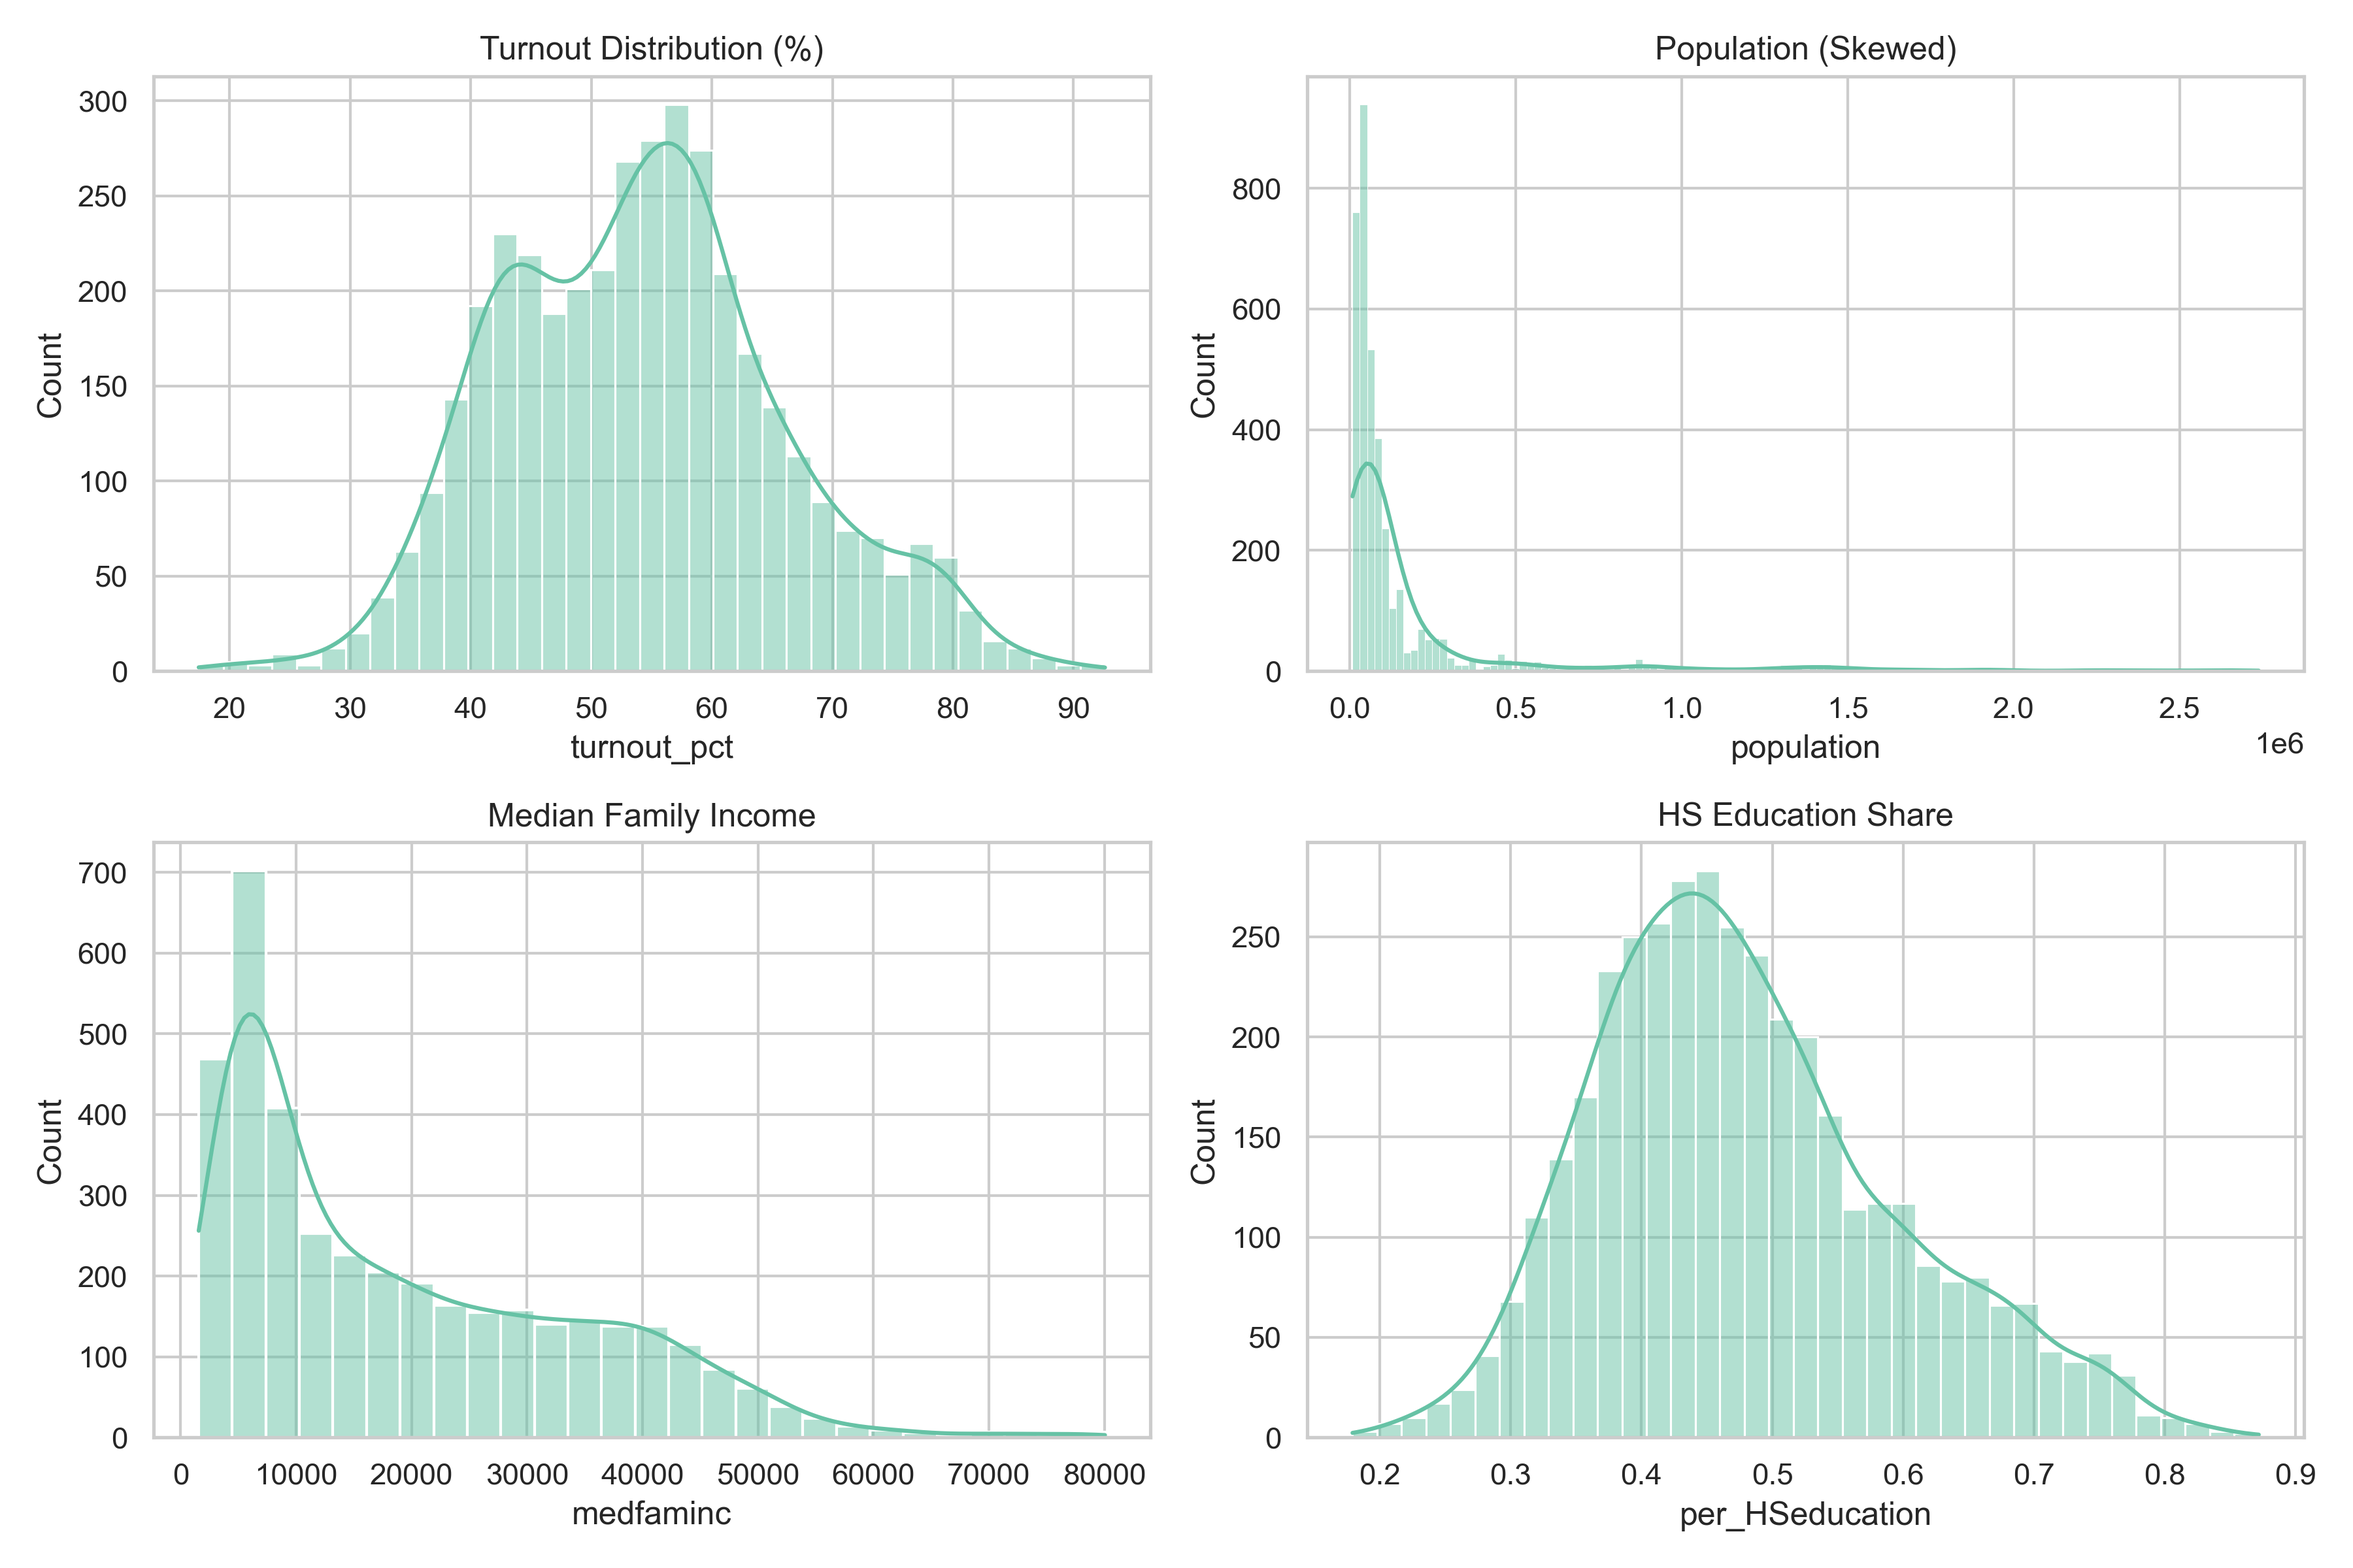
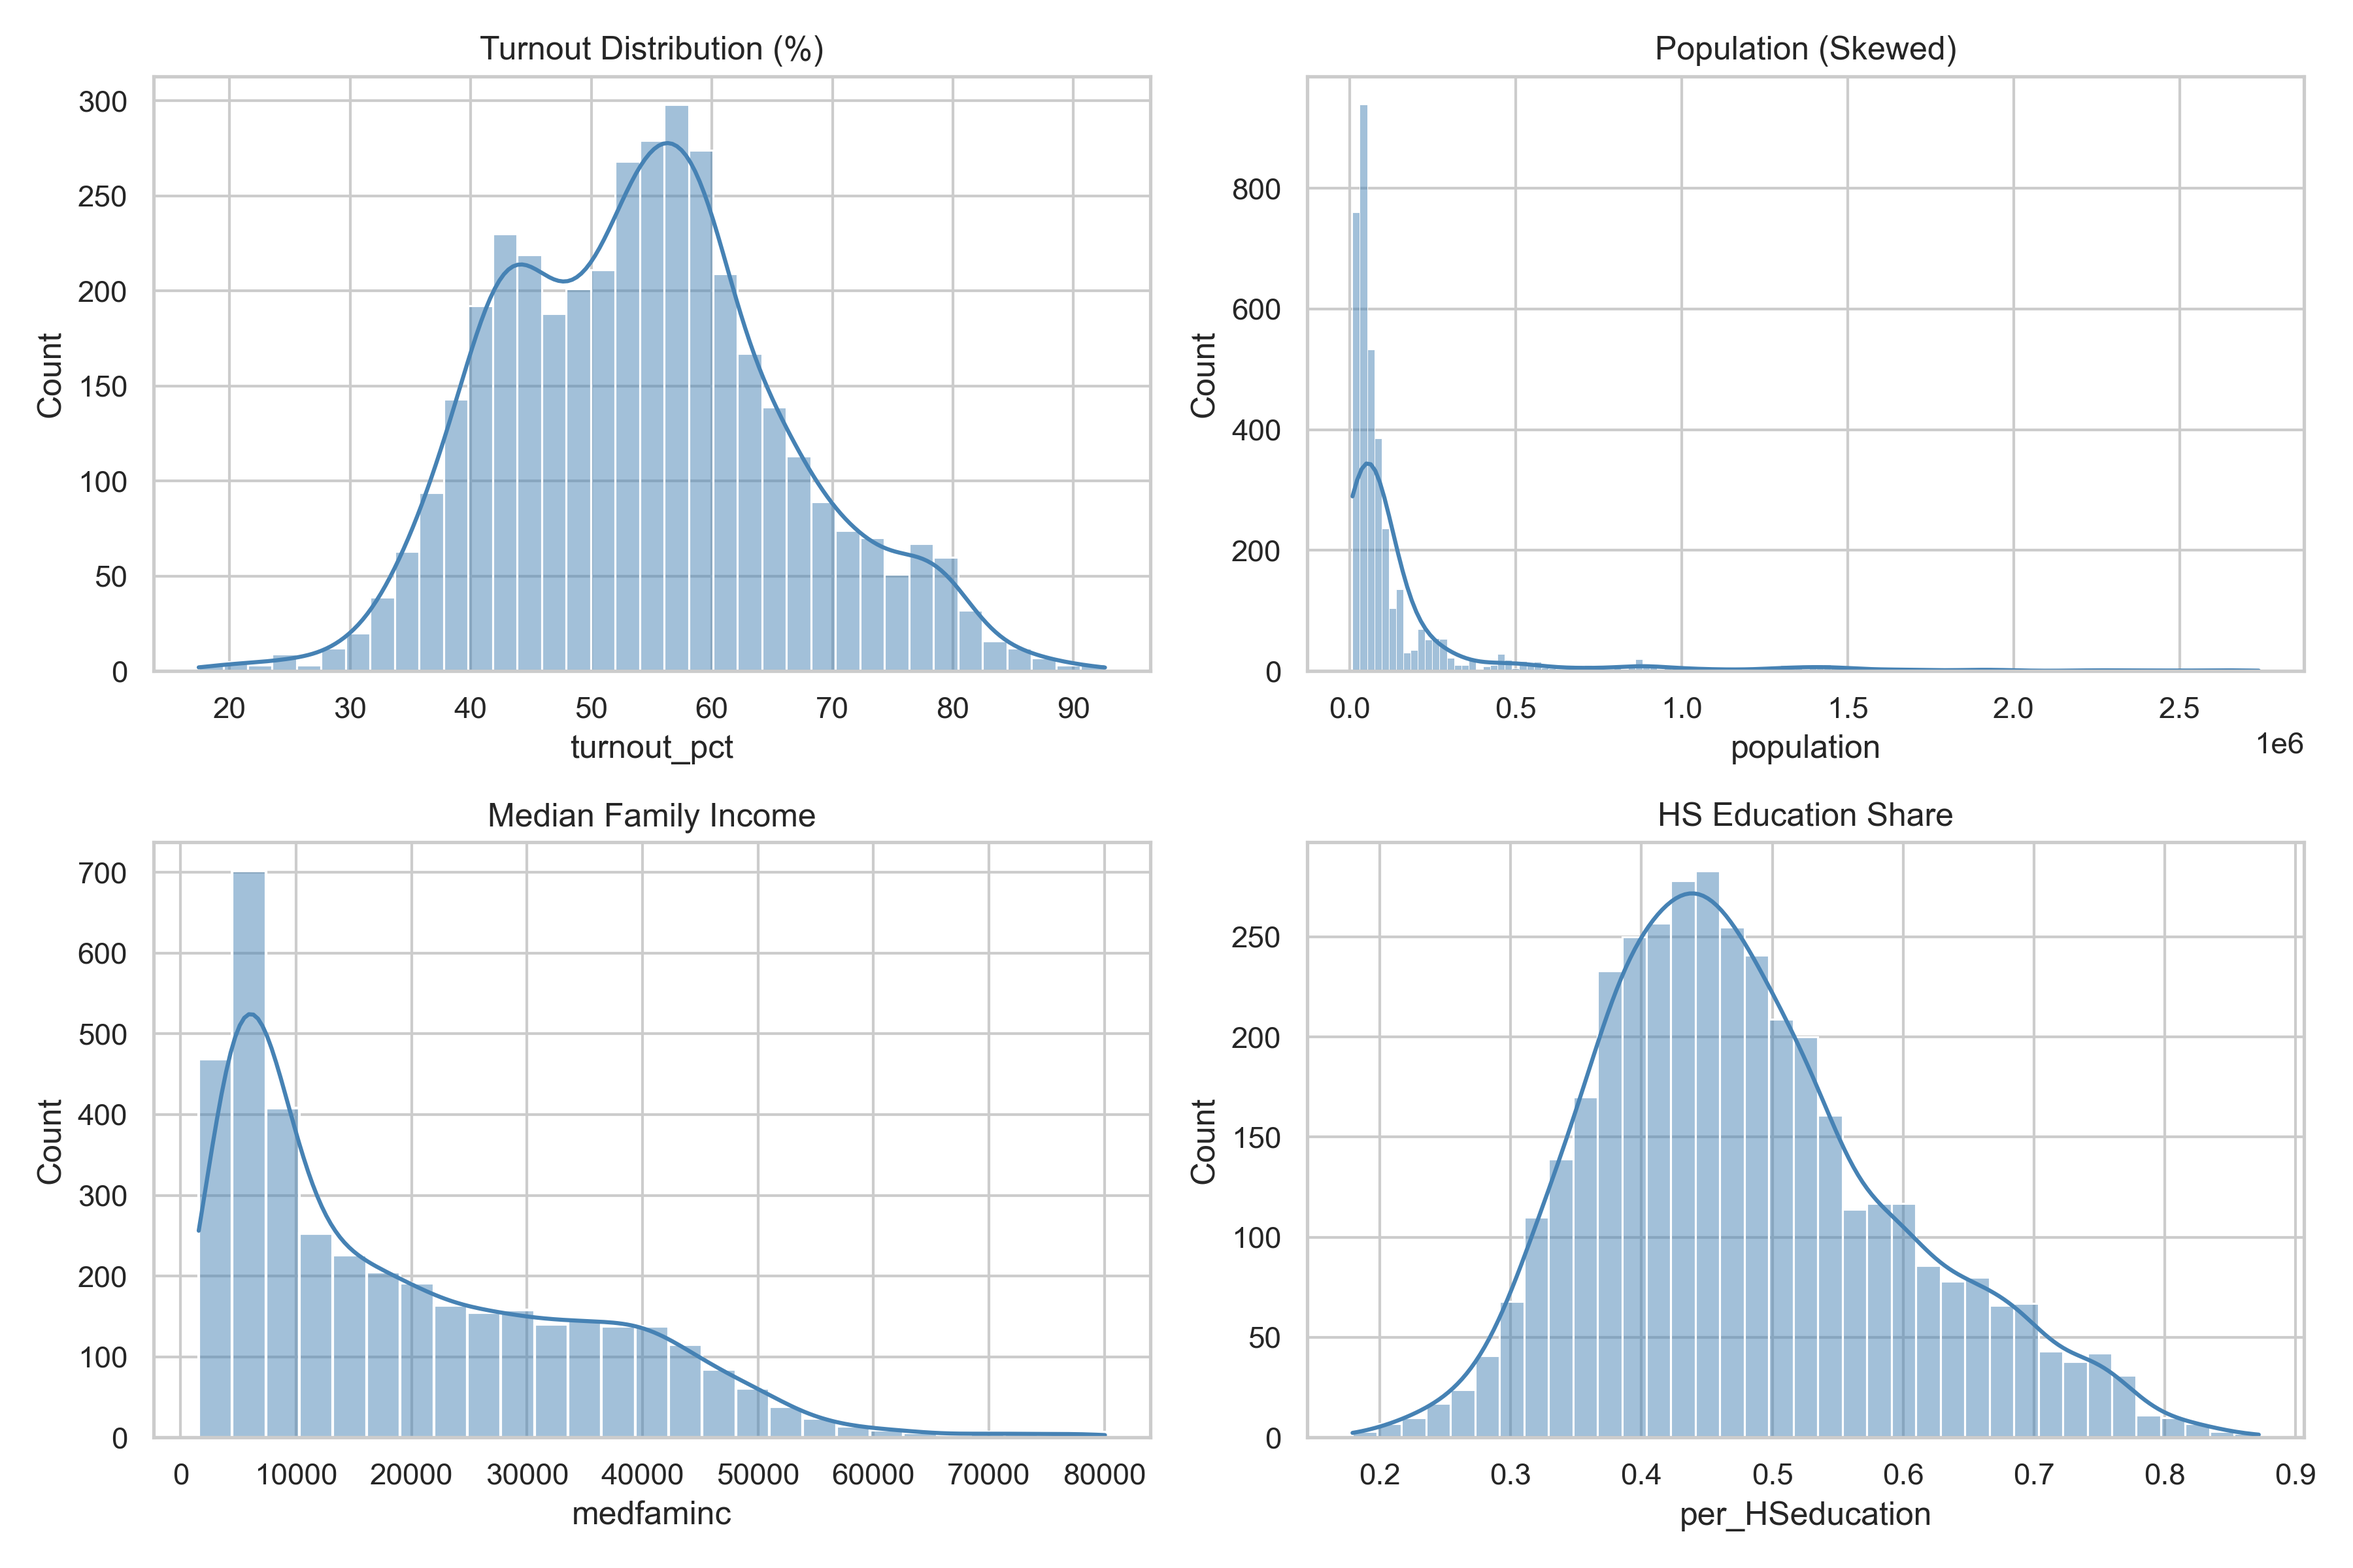
a

diff --git a/problemset2.py b/problemset2.py
@@ -126,19 +126,19 @@ key_vars = [
 fig, axes = plt.subplots(2, 2, figsize=(12, 8))
 
 # Turnout Distribution
-sns.histplot(df["turnout_pct"], kde=True, ax=axes[0,0])
+sns.histplot(df["turnout_pct"], kde=True, ax=axes[0,0], color="steelblue")
 axes[0,0].set_title("Turnout Distribution (%)")
 
 # Population Distribution
-sns.histplot(df["population"], kde=True, ax=axes[0,1])
+sns.histplot(df["population"], kde=True, ax=axes[0,1], color="steelblue")
 axes[0,1].set_title("Population (Skewed)")
 
 # Income Distribution
-sns.histplot(df["medfaminc"], kde=True, ax=axes[1,0])
+sns.histplot(df["medfaminc"], kde=True, ax=axes[1,0], color="steelblue")
 axes[1,0].set_title("Median Family Income")
 
 # Education distribution
-sns.histplot(df["per_HSeducation"], kde=True, ax=axes[1,1])
+sns.histplot(df["per_HSeducation"], kde=True, ax=axes[1,1], color="steelblue")
 axes[1,1].set_title("HS Education Share")
 
 plt.tight_layout()
@@ -191,7 +191,7 @@ plt.tight_layout()
 plt.savefig("outputs/turnout_by_presyear_bar.png", dpi=300)
 plt.show()
 plt.close()
- 
+  
 # Law Change
 plt.figure(figsize=(6,4))
 
@@ -218,7 +218,7 @@ plt.close()
 # Income vs Education
 plt.figure(figsize=(6,4))
  
-sns.scatterplot(x="log_inc", y="per_HSeducation", data=df, alpha=0.4)
+sns.scatterplot(x="log_inc", y="per_HSeducation", data=df, alpha=0.4, color="steelblue")
 
 plt.title("Income vs Education")
 plt.tight_layout()
@@ -233,7 +233,7 @@ plt.figure(figsize=(6,4))
 
 state_means = df.groupby("state")["turnout_pct"].mean().reset_index()
 
-sns.barplot(x="state", y="turnout_pct", data=state_means)
+sns.barplot(x="state", y="turnout_pct", data=state_means, color="steelblue")
 
 plt.title("Average Turnout by State")
 plt.ylabel("Mean Turnout (%)")
